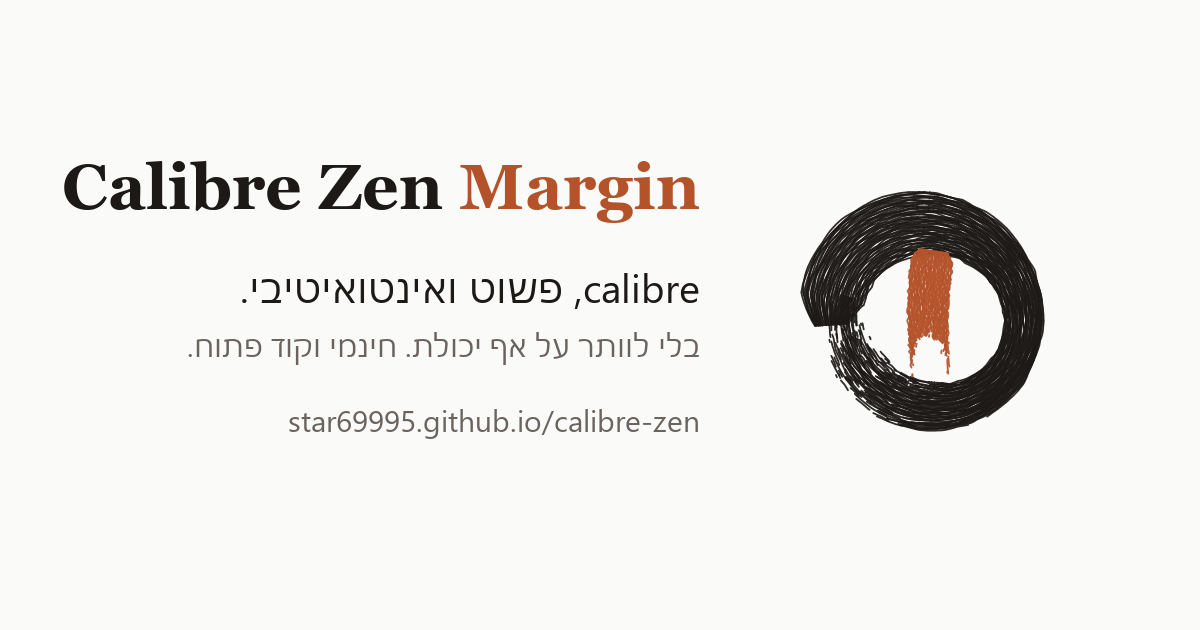
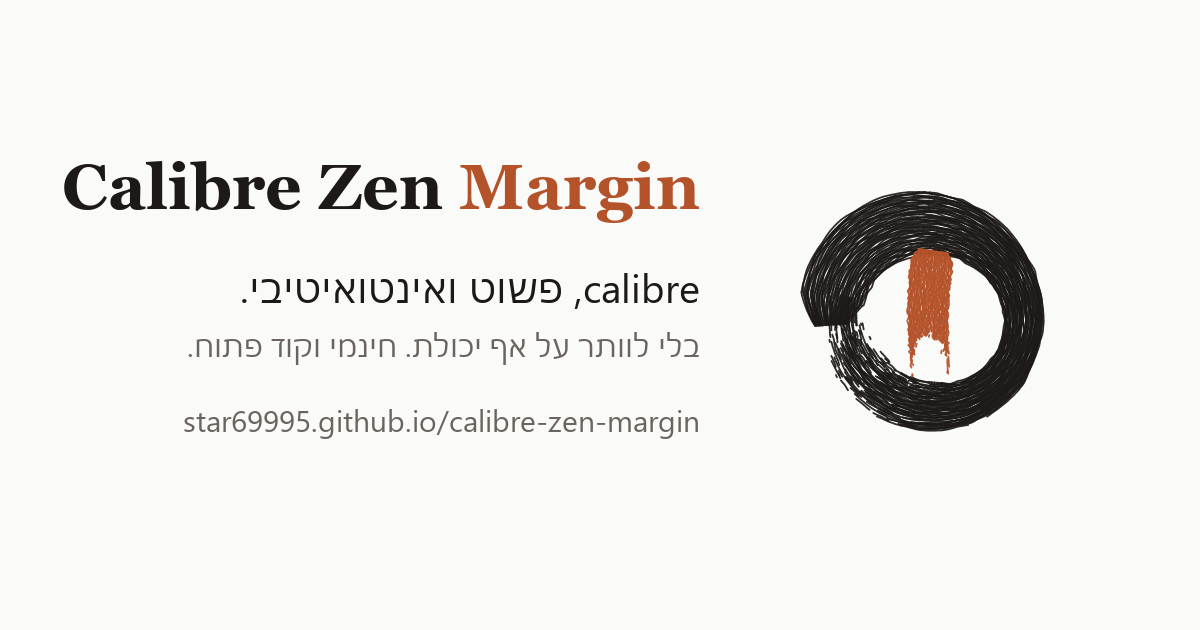
Follow the repository's rename to calibre-zen-margin; version 0.5.1
The releases, the update feed, the website (now
star69995.github.io/calibre-zen-margin) and every link to them. v0.5.0
was tagged before the rename and is never released.

Changed region(s): [[0.1542, 0.6333, 0.5858, 0.6937]]

diff --git a/site/he/index.html b/site/he/index.html
@@ -5,17 +5,17 @@
   <meta name="viewport" content="width=device-width, initial-scale=1">
   <title>Calibre Zen Margin: קליבר, פשוט ואינטואיטיבי</title>
   <meta name="description" content="Calibre Zen Margin הוא calibre עם ממשק פשוט ואינטואיטיבי, בלי לוותר על אף יכולת. חינמי וקוד פתוח, בעברית ובאנגלית. מותקן לצד calibre ו-Calibre Zen.">
-  <link rel="canonical" href="https://star69995.github.io/calibre-zen/he/">
-  <link rel="alternate" hreflang="en" href="https://star69995.github.io/calibre-zen/">
-  <link rel="alternate" hreflang="he" href="https://star69995.github.io/calibre-zen/he/">
-  <link rel="alternate" hreflang="x-default" href="https://star69995.github.io/calibre-zen/">
+  <link rel="canonical" href="https://star69995.github.io/calibre-zen-margin/he/">
+  <link rel="alternate" hreflang="en" href="https://star69995.github.io/calibre-zen-margin/">
+  <link rel="alternate" hreflang="he" href="https://star69995.github.io/calibre-zen-margin/he/">
+  <link rel="alternate" hreflang="x-default" href="https://star69995.github.io/calibre-zen-margin/">
   <meta name="theme-color" content="#fafaf9" media="(prefers-color-scheme: light)">
   <meta name="theme-color" content="#0c0a09" media="(prefers-color-scheme: dark)">
   <meta property="og:type" content="website">
-  <meta property="og:url" content="https://star69995.github.io/calibre-zen/he/">
+  <meta property="og:url" content="https://star69995.github.io/calibre-zen-margin/he/">
   <meta property="og:title" content="Calibre Zen Margin: קליבר, פשוט ואינטואיטיבי">
   <meta property="og:description" content="ממשק פשוט ואינטואיטיבי ל-calibre, בלי לוותר על אף יכולת. חינמי וקוד פתוח, מבוסס על calibre של Kovid Goyal ועל Calibre Zen של purplecandy.">
-  <meta property="og:image" content="https://star69995.github.io/calibre-zen/img/og-he.png">
+  <meta property="og:image" content="https://star69995.github.io/calibre-zen-margin/img/og-he.png">
   <meta property="og:image:width" content="1200">
   <meta property="og:image:height" content="630">
   <meta property="og:image:alt" content="הסמל של Calibre Zen Margin, עיגול מכחול עם סימנייה בצבע חרס, לצד השם והשורה: calibre, פשוט ואינטואיטיבי, בלי לוותר על אף יכולת">
@@ -55,7 +55,7 @@
         <a href="#download">הורדה</a>
       </nav>
       <a class="lang-switch" href="../" hreflang="en" lang="en" aria-label="This page in English">English</a>
-      <a class="gh" href="https://github.com/Star69995/calibre-zen"><svg class="ic" aria-hidden="true"><use href="#i-github"/></svg><span>GitHub</span></a>
+      <a class="gh" href="https://github.com/Star69995/calibre-zen-margin"><svg class="ic" aria-hidden="true"><use href="#i-github"/></svg><span>GitHub</span></a>
     </div>
   </header>
 
@@ -223,7 +223,7 @@
         </details>
         <details class="disclosure">
           <summary><svg class="ic chev" aria-hidden="true"><use href="#i-chevron"/></svg>זה בחינם?</summary>
-          <div class="disclosure-body"><p>כן, וקוד פתוח ברישיון GNU GPL v3, כמו calibre ו-Calibre Zen. הקוד נמצא ב-<a href="https://github.com/Star69995/calibre-zen">GitHub</a>.</p></div>
+          <div class="disclosure-body"><p>כן, וקוד פתוח ברישיון GNU GPL v3, כמו calibre ו-Calibre Zen. הקוד נמצא ב-<a href="https://github.com/Star69995/calibre-zen-margin">GitHub</a>.</p></div>
         </details>
       </div></div>
     </section>

diff --git a/site/index.html b/site/index.html
@@ -5,17 +5,17 @@
   <meta name="viewport" content="width=device-width, initial-scale=1">
   <title>Calibre Zen Margin: calibre, simple and intuitive</title>
   <meta name="description" content="Calibre Zen Margin is calibre with a simple, intuitive interface, and every feature kept. Free, open source, in English and Hebrew. Installs beside calibre and Calibre Zen.">
-  <link rel="canonical" href="https://star69995.github.io/calibre-zen/">
-  <link rel="alternate" hreflang="en" href="https://star69995.github.io/calibre-zen/">
-  <link rel="alternate" hreflang="he" href="https://star69995.github.io/calibre-zen/he/">
-  <link rel="alternate" hreflang="x-default" href="https://star69995.github.io/calibre-zen/">
+  <link rel="canonical" href="https://star69995.github.io/calibre-zen-margin/">
+  <link rel="alternate" hreflang="en" href="https://star69995.github.io/calibre-zen-margin/">
+  <link rel="alternate" hreflang="he" href="https://star69995.github.io/calibre-zen-margin/he/">
+  <link rel="alternate" hreflang="x-default" href="https://star69995.github.io/calibre-zen-margin/">
   <meta name="theme-color" content="#fafaf9" media="(prefers-color-scheme: light)">
   <meta name="theme-color" content="#0c0a09" media="(prefers-color-scheme: dark)">
   <meta property="og:type" content="website">
-  <meta property="og:url" content="https://star69995.github.io/calibre-zen/">
+  <meta property="og:url" content="https://star69995.github.io/calibre-zen-margin/">
   <meta property="og:title" content="Calibre Zen Margin: calibre, simple and intuitive">
   <meta property="og:description" content="A simple, intuitive interface for calibre, with every feature kept. Free and open source, based on calibre by Kovid Goyal and Calibre Zen by purplecandy.">
-  <meta property="og:image" content="https://star69995.github.io/calibre-zen/img/og-en.png">
+  <meta property="og:image" content="https://star69995.github.io/calibre-zen-margin/img/og-en.png">
   <meta property="og:image:width" content="1200">
   <meta property="og:image:height" content="630">
   <meta property="og:image:alt" content="The Calibre Zen Margin mark, a brushed circle with a terracotta bookmark, beside the name and the line: calibre, simple and intuitive, with every feature kept">
@@ -55,7 +55,7 @@
         <a href="#download">Download</a>
       </nav>
       <a class="lang-switch" href="he/" hreflang="he" lang="he" aria-label="הדף הזה בעברית">עברית</a>
-      <a class="gh" href="https://github.com/Star69995/calibre-zen"><svg class="ic" aria-hidden="true"><use href="#i-github"/></svg><span>GitHub</span></a>
+      <a class="gh" href="https://github.com/Star69995/calibre-zen-margin"><svg class="ic" aria-hidden="true"><use href="#i-github"/></svg><span>GitHub</span></a>
     </div>
   </header>
 
@@ -223,7 +223,7 @@
         </details>
         <details class="disclosure">
           <summary><svg class="ic chev" aria-hidden="true"><use href="#i-chevron"/></svg>Is it free?</summary>
-          <div class="disclosure-body"><p>Yes, and open source under the GNU GPL v3, like calibre and Calibre Zen. The source is on <a href="https://github.com/Star69995/calibre-zen">GitHub</a>.</p></div>
+          <div class="disclosure-body"><p>Yes, and open source under the GNU GPL v3, like calibre and Calibre Zen. The source is on <a href="https://github.com/Star69995/calibre-zen-margin">GitHub</a>.</p></div>
         </details>
       </div></div>
     </section>

diff --git a/site/app.js b/site/app.js
@@ -3,7 +3,7 @@
 (() => {
   "use strict";
 
-  const REPO = "Star69995/calibre-zen";
+  const REPO = "Star69995/calibre-zen-margin";
   const RELEASES_PAGE = `https://github.com/${REPO}/releases`;
   const API = `https://api.github.com/repos/${REPO}/releases?per_page=100`;
   const CACHE_KEY = "margin-releases-v1";

diff --git a/src/calibre/constants.py b/src/calibre/constants.py
@@ -21,15 +21,15 @@ __appname__ = 'calibre-zen-margin'
 # stay calibre's -- plugins and the database schema key off them -- so this
 # sits beside them. The packaging scripts read it, and a release tag is 'v'
 # followed by it.
-zen_version = '0.5.0'
+zen_version = '0.5.1'
 # calibre-zen: what a person sees -- the Dock, the Start menu, the window
 # title, the Store listing. __appname__ stays the identity: config directory,
 # lock, socket, executable and PATH names.
 zen_display_name = 'Calibre Zen Margin'
 # calibre-zen: where this fork lives. Its releases are what the in-app update
 # reads and the website lists; the .msi links its homepage from the Start menu.
-zen_repo = 'Star69995/calibre-zen'
-zen_homepage = 'https://star69995.github.io/calibre-zen/'
+zen_repo = 'Star69995/calibre-zen-margin'
+zen_homepage = 'https://star69995.github.io/calibre-zen-margin/'
 # calibre-zen: the .msi's UpgradeCode. Each fork that installs side by side
 # needs its own, or one .msi upgrades (removes) the other. Never change it
 # once released: it is how a newer .msi finds the one it replaces.

diff --git a/src/calibre_zen/tests/test_update.py b/src/calibre_zen/tests/test_update.py
@@ -74,7 +74,7 @@ class TestFeed(ZenTestCase, Fixtures):
     def test_whats_new_is_the_latest_release(self):
         self.addCleanup(setattr, update, '_latest', update._latest)
         update._latest = {'url': 'https://github.com/purplecandy/calibre-zen/releases/tag/v9.9.9'}
-        self.assertEqual(update.notes_url(), 'https://github.com/Star69995/calibre-zen/releases/latest')
+        self.assertEqual(update.notes_url(), 'https://github.com/Star69995/calibre-zen-margin/releases/latest')
         update._latest = {'notes': 'https://calibrezen.com/docs/releases/9.9.9'}
         self.assertEqual(update.notes_url(), 'https://calibrezen.com/docs/releases/9.9.9')
 

diff --git a/scripts/og_image.py b/scripts/og_image.py
@@ -65,7 +65,7 @@ def card(lang):
     p.setFont(body)
     p.setPen(QColor(MUTED))
     p.drawText(QRectF(text.left(), text.top() + 175, text.width(), 50), align, sub)
-    p.drawText(QRectF(text.left(), text.top() + 250, text.width(), 50), align, 'star69995.github.io/calibre-zen')
+    p.drawText(QRectF(text.left(), text.top() + 250, text.width(), 50), align, 'star69995.github.io/calibre-zen-margin')
     p.end()
     out = os.path.join(ROOT, 'site', 'img', f'og-{lang}.png')
     img.save(out)

diff --git a/README.md b/README.md
@@ -8,7 +8,7 @@ Calibre Zen Margin is a fork of [Calibre Zen](https://github.com/purplecandy/cal
 
 It installs as a separate app beside **calibre** and **Calibre Zen**, with its own folder, settings, lock and command-line names, so neither is touched. The same library opens in any of them.
 
-[Website](https://star69995.github.io/calibre-zen/) · [עברית](https://star69995.github.io/calibre-zen/he/) · [Releases](https://github.com/Star69995/calibre-zen/releases)
+[Website](https://star69995.github.io/calibre-zen-margin/) · [עברית](https://star69995.github.io/calibre-zen-margin/he/) · [Releases](https://github.com/Star69995/calibre-zen-margin/releases)
 
 <br clear="left"/>
 
@@ -22,14 +22,14 @@ Both earlier projects' copyright notices stay where they are (GPL v3; see [COPYR
 
 ## Download
 
-Packages for Windows (x64 `.msi`, portable installer, `.zip`), macOS (universal `.dmg`) and Linux (x86_64 and arm64 `.txz` and Flatpak) are built by CI from calibre's own release binaries on every `v*` tag; see [BUILDING.md](BUILDING.md). Get them from the [website](https://star69995.github.io/calibre-zen/) or the [releases page](https://github.com/Star69995/calibre-zen/releases).
+Packages for Windows (x64 `.msi`, portable installer, `.zip`), macOS (universal `.dmg`) and Linux (x86_64 and arm64 `.txz` and Flatpak) are built by CI from calibre's own release binaries on every `v*` tag; see [BUILDING.md](BUILDING.md). Get them from the [website](https://star69995.github.io/calibre-zen-margin/) or the [releases page](https://github.com/Star69995/calibre-zen-margin/releases).
 
 ### Install on Linux
 
 Run this from the folder where you want the app. It downloads the latest Linux release for your computer, checks its SHA-256, extracts it, and checks the launchers:
 
 ```sh
-curl -fL https://raw.githubusercontent.com/Star69995/calibre-zen/zen/packaging/linux/install-zen.sh -o install-zen.sh && sh install-zen.sh --latest && ./calibre-zen-margin/calibre-zen-margin --version
+curl -fL https://raw.githubusercontent.com/Star69995/calibre-zen-margin/zen/packaging/linux/install-zen.sh -o install-zen.sh && sh install-zen.sh --latest && ./calibre-zen-margin/calibre-zen-margin --version
 ```
 
 If you downloaded the `.txz` and matching `.sha256` files yourself, run `sha256sum -c <archive>.sha256` and then `sh install-zen.sh <archive>.txz`. On a minimal system, install missing graphics libraries for your distro:
@@ -54,11 +54,11 @@ Move any existing `calibre-zen-margin` folder aside before running the installer
 | `.msi` UpgradeCode | its own | `zen_upgrade_code` in `constants.py` |
 | tools on `PATH` | `zen-calibredb`, ... | `margin-calibredb`, ... |
 | portable folder | `Calibre Zen Portable` | `Calibre Zen Margin Portable` |
-| updates from | purplecandy/calibre-zen | Star69995/calibre-zen |
+| updates from | purplecandy/calibre-zen | Star69995/calibre-zen-margin |
 
 ### The website
 
-`site/` is the [project page](https://star69995.github.io/calibre-zen/), deployed to GitHub Pages by `.github/workflows/pages.yml`; it lists releases live, so publishing one is enough. Screenshots come from `scripts/site-shots.sh` (on the library `scripts/showcase_library.py` builds), the link-preview cards from `scripts/og_image.py`, the icon from `imgsrc/margin_mark.py`.
+`site/` is the [project page](https://star69995.github.io/calibre-zen-margin/), deployed to GitHub Pages by `.github/workflows/pages.yml`; it lists releases live, so publishing one is enough. Screenshots come from `scripts/site-shots.sh` (on the library `scripts/showcase_library.py` builds), the link-preview cards from `scripts/og_image.py`, the icon from `imgsrc/margin_mark.py`.
 
 ### Roadmap
 

diff --git a/docs/plans/releases/README.md b/docs/plans/releases/README.md
@@ -1,7 +1,7 @@
 # Releases of my own fork, with automatic updates
 
 Started 2026-11-05. Planning only; nothing is built. The goal is to publish
-Calibre Zen builds from `Star69995/calibre-zen` on GitHub, and to have installed
+Calibre Zen builds from `Star69995/calibre-zen-margin` on GitHub, and to have installed
 copies find and download them on their own, with a way to turn that off.
 
 ## What exists already
@@ -124,7 +124,7 @@ when this lands.
 
 | | What | Notes |
 | --- | --- | --- |
-| R1 | **Releases from your fork.** Enable Actions on `Star69995/calibre-zen`, run `zen-package.yml` on a tag, check the draft release it makes, and publish it. | Needs nothing from `purplecandy`. The macOS signing secrets are optional and the job is gated on them, so without them the macOS build is unsigned. |
+| R1 | **Releases from your fork.** Enable Actions on `Star69995/calibre-zen-margin`, run `zen-package.yml` on a tag, check the draft release it makes, and publish it. | Needs nothing from `purplecandy`. The macOS signing secrets are optional and the job is gated on them, so without them the macOS build is unsigned. |
 | R2 | **Addresses from settings.** `FEED_URL`, `RELEASES_URL` and `NOTES_URL` come from the settings registry (code-quality **I**), defaulting to your repository, with the existing environment override. | One place to change if the repository ever moves. |
 | R3 | **The update mode setting** (off, notify, automatic; **automatic is the default**) in Preferences, in the first-run wizard, and shown in the status bar. | Reads the registry. Replaces the per-user choice that is only an environment variable today. |
 | R4 | **Download in the background, as a job.** The download is a job in the job manager, so it appears in the status-bar jobs segment (U8) with a progress bar and a cancel button. | Reuses `upgrade.download`, which already verifies the `sha256` and size. |
@@ -170,5 +170,5 @@ screenshots of the dialog, the wizard step and the status bar for approval.
 
 - What should the product be called, and which branding level (1 to 4)? It will
   install beside the official Calibre Zen, since the branding is separate.
-- Is GitHub Releases on a public `Star69995/calibre-zen` fine, or do you want to
+- Is GitHub Releases on a public `Star69995/calibre-zen-margin` fine, or do you want to
   host the packages and the feed somewhere else?

diff --git a/docs/plans/HANDOFF.md b/docs/plans/HANDOFF.md
@@ -7,7 +7,7 @@ a working setup. Delete it, or rewrite it, when it goes stale.
 ## Set up on a new machine
 
 - Branch `zen`. Remotes: `origin` is `purplecandy/calibre-zen` (no write access),
-  `fork` is `Star69995/calibre-zen`; push to `fork`.
+  `fork` is `Star69995/calibre-zen-margin`; push to `fork`.
 - A calibre binary of the **same version as `src/calibre/constants.py`** (9.17.0).
   The installed Calibre Zen 9.15 is refused. The official calibre 9.17 works.
 - Tests (Git Bash): `CALIBRE_ZEN_CALIBRE_DEBUG="<path>/calibre-debug.exe" ./zen-test`.
@@ -79,7 +79,7 @@ branding decision.
 ## Open decisions (yours)
 
 - Product name, and how far the branding departs from Zen.
-- Where releases are hosted (`Star69995/calibre-zen` Releases, or elsewhere).
+- Where releases are hosted (`Star69995/calibre-zen-margin` Releases, or elsewhere).
 - Which of the 19 plugins to rewrite, one source per plugin, and licences.
 - Should Preferences become non-modal.
 - "Apply when jobs finish" in U7, and one message for library switch and

diff --git a/CLAUDE.md b/CLAUDE.md
@@ -5,7 +5,7 @@ product is **Calibre Zen Margin** (`zen_display_name`), app name
 `calibre-zen-margin` (`__appname__`), PATH prefix `margin-` (`linux.py`), and it
 must install beside both calibre and Calibre Zen: never reuse their names, the
 `.msi` UpgradeCode (`zen_upgrade_code`) or their update feed. Releases, the
-update feed and the website live in `zen_repo` (Star69995/calibre-zen). The
+update feed and the website live in `zen_repo` (Star69995/calibre-zen-margin). The
 code keeps the `zen`/`calibre_zen` names inside, so merges from Calibre Zen
 stay small. Credit Kovid Goyal (calibre) and Nadeem Siddique (Calibre Zen)
 wherever the product is described.

diff --git a/packaging/docker/README.md b/packaging/docker/README.md
@@ -30,7 +30,7 @@ Put your own password in place of `PICK-A-PASSWORD` first. The image will not st
 The compose file comes down with one line, best run in a new folder:
 
 ```sh
-curl -fsSLO https://raw.githubusercontent.com/Star69995/calibre-zen/zen/packaging/docker/compose.yaml
+curl -fsSLO https://raw.githubusercontent.com/Star69995/calibre-zen-margin/zen/packaging/docker/compose.yaml
 ```
 
 Your password goes next to it, in a file named `.env` with one line, `CALIBRE_ZEN_PASSWORD=` and then the password. `docker compose up -d` in that folder starts it. The file holds this:

diff --git a/BUILDING.md b/BUILDING.md
@@ -282,7 +282,7 @@ The channel from a push to a user's machine, and what each part promises:
    release page, every file with its sha256 and size -- and GitHub serves the
    newest *published* release's copy at
 
-       https://github.com/Star69995/calibre-zen/releases/latest/download/latest.json
+       https://github.com/Star69995/calibre-zen-margin/releases/latest/download/latest.json
 
    The repository is `zen_repo` in `src/calibre/constants.py`; `update.py`
    and the report dialog's issue link read it from there.
